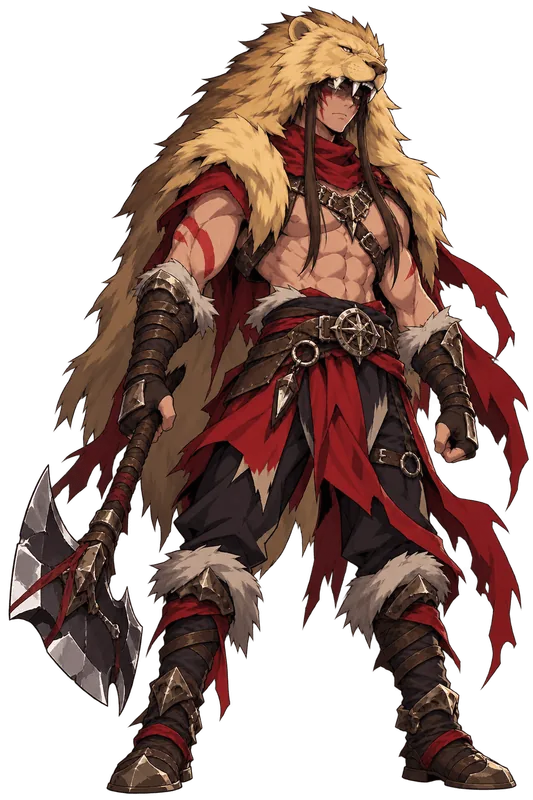
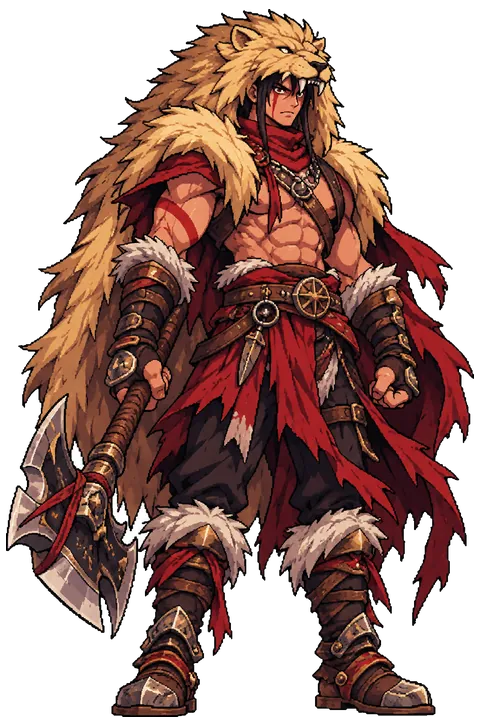
feat(hud): avatares do jogo com as artes novas da criação de personagem
Os 6 avatares (HUD, perfil público, ficha e seletor) passam a usar as
mesmas artes novas da criação, 480x720 em webp, e o enquadramento do rosto
foi refeito para a arte nova.

Claude-Session: https://claude.ai/code/session_016SswG1SZK2JExcHiYwawJu

diff --git a/src/assets/avatars.ts b/src/assets/avatars.ts
@@ -24,42 +24,18 @@ export const AVATAR_IMAGES: Record<AvatarAssetKey, string> = {
 
 /**
  * Enquadramento individual por classe para recortar/focar a região da cabeça/rosto
- * a partir da mesma arte de corpo inteiro (533x800).
+ * a partir da mesma arte de corpo inteiro (480x720, a mesma da criação de personagem).
  */
 export const AVATAR_FACE_FRAMING: Record<
   AvatarId,
   { objectPosition: string; transformOrigin: string; scale: number }
 > = {
-  barbaro: {
-    objectPosition: '54% 8%',
-    transformOrigin: '54% 12%',
-    scale: 2.35,
-  },
-  bandido: {
-    objectPosition: '47% 8%',
-    transformOrigin: '47% 12%',
-    scale: 2.35,
-  },
-  cavaleiro: {
-    objectPosition: '58% 8%',
-    transformOrigin: '58% 12%',
-    scale: 2.35,
-  },
-  feiticeiro: {
-    objectPosition: '55% 6%',
-    transformOrigin: '55% 10%',
-    scale: 2.25,
-  },
-  profeta: {
-    objectPosition: '51% 8%',
-    transformOrigin: '51% 12%',
-    scale: 2.35,
-  },
-  samurai: {
-    objectPosition: '50% 8%',
-    transformOrigin: '50% 12%',
-    scale: 2.35,
-  },
+  barbaro: { objectPosition: '50% 0%', transformOrigin: '42% 5%', scale: 1.9 },
+  bandido: { objectPosition: '50% 0%', transformOrigin: '50% 5%', scale: 1.9 },
+  cavaleiro: { objectPosition: '50% 0%', transformOrigin: '50% 1%', scale: 1.9 },
+  feiticeiro: { objectPosition: '50% 0%', transformOrigin: '58% 1%', scale: 1.9 },
+  profeta: { objectPosition: '50% 0%', transformOrigin: '50% 1%', scale: 1.9 },
+  samurai: { objectPosition: '50% 0%', transformOrigin: '50% 1%', scale: 1.9 },
 };
 
 export function resolveAvatarDefinition(
